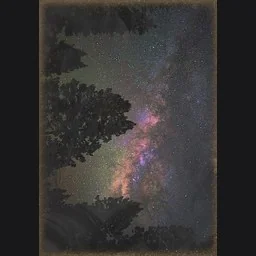
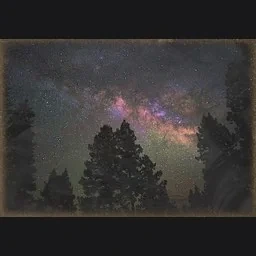
Flag Frame K (cw) and Frame V (ccw) as sideways-stored frames
Both frames store landscape art sideways in a portrait atlas tile but had
no vanillaContentRotation, so uploads rendered sideways in-game.

- K (Milky Way): mesh maps picture-up to the tile's right edge, art top
  points right ~ 'cw', same as D/E/F/G/H/I/J/N/Q/R.
- V (diploma): mesh maps picture-up to the tile's LEFT edge, diploma
  text runs bottom-to-top ~ 'ccw'. The only left-edge frame.

Also turns the K and V reference thumbs upright so the slot cards match
the other rotated frames, and adds both to the thumb script's ROTATIONS.

diff --git a/src/types/slots.ts b/src/types/slots.ts
@@ -123,11 +123,12 @@ export interface SlotDef {
    * Value is the composer's rotate90 direction (canvas y-down: 'cw' sends
    * the upload's top edge to the tile's RIGHT edge).
    *
-   * Source of truth: the LOD0 mesh UVs. Every pictureFrame_01* mesh maps
-   * picture-up to the same block axis, and in every rotated tile that axis
-   * is +U (the tile's right edge) ~ the vanilla art's top points right in
-   * the atlas. So all rotated frames need 'cw'. v1.0.6–1.3.0 shipped 'ccw',
-   * which rendered user art upside down (Picture G report, 1.3.1 fix).
+   * Source of truth: the LOD0 mesh UVs ~ which tile edge the mesh maps to
+   * picture-up (the vanilla art's top agrees in every case). Right edge
+   * (D/E/F/G/H/I/J/K/N/Q/R) → 'cw'; left edge (V, the diploma) → 'ccw'.
+   * v1.0.6–1.3.0 shipped 'ccw' for the right-edge group, which rendered
+   * user art upside down (Picture G report); K and V had no marker and
+   * rendered sideways. Fixed in 1.3.1.
    *
    * NOT the same direction as scripts/fix_rotated_frame_thumbs.py's
    * ROTATIONS dict ~ that one un-rotates the reference thumbs for display.
@@ -368,7 +369,7 @@ export const SLOTS: SlotDef[] = [
   { slotId: 'pictureFrame_01h', materialName: 'pictureFramed3', label: 'Frame H', vanillaBlocks: ['pictureFrame_01h'], kind: 'canvasTile', atlasTile: { x: 373,  y: 1533, w: 350, h: 502 }, vanillaContentRotation: 'cw' },
   { slotId: 'pictureFrame_01i', materialName: 'pictureFramed3', label: 'Frame I', vanillaBlocks: ['pictureFrame_01i'], kind: 'canvasTile', atlasTile: { x: 1288, y: 1138, w: 735, h: 898 }, vanillaContentRotation: 'cw' },
   { slotId: 'pictureFrame_01j', materialName: 'pictureFramed4', label: 'Frame J', vanillaBlocks: ['pictureFrame_01j'], kind: 'canvasTile', atlasTile: { x: 741,  y: 1361, w: 532, h: 674 }, vanillaContentRotation: 'cw' },
-  { slotId: 'pictureFrame_01k', materialName: 'pictureFramed4', label: 'Frame K', vanillaBlocks: ['pictureFrame_01k'], kind: 'canvasTile', atlasTile: { x: 373,  y: 1533, w: 350, h: 502 } },
+  { slotId: 'pictureFrame_01k', materialName: 'pictureFramed4', label: 'Frame K', vanillaBlocks: ['pictureFrame_01k'], kind: 'canvasTile', atlasTile: { x: 373,  y: 1533, w: 350, h: 502 }, vanillaContentRotation: 'cw' },
   { slotId: 'pictureFrame_01l', materialName: 'pictureFramed4', label: 'Frame L', vanillaBlocks: ['pictureFrame_01l'], kind: 'canvasTile', atlasTile: { x: 1288, y: 1138, w: 735, h: 898 } },
   { slotId: 'pictureFrame_01m', materialName: 'pictureFramed5', label: 'Frame M', vanillaBlocks: ['pictureFrame_01m'], kind: 'canvasTile', atlasTile: { x: 1288, y: 1138, w: 735, h: 898 } },
   { slotId: 'pictureFrame_01n', materialName: 'pictureFramed5', label: 'Frame N', vanillaBlocks: ['pictureFrame_01n'], kind: 'canvasTile', atlasTile: { x: 373,  y: 1533, w: 350, h: 502 }, vanillaContentRotation: 'cw' },
@@ -379,7 +380,7 @@ export const SLOTS: SlotDef[] = [
   { slotId: 'pictureFrame_01s', materialName: 'pictureFramed7', label: 'Frame S', vanillaBlocks: ['pictureFrame_01s'], kind: 'canvasTile', atlasTile: { x: 1288, y: 1138, w: 735, h: 898 } },
   { slotId: 'pictureFrame_01t', materialName: 'pictureFramed7', label: 'Frame T', vanillaBlocks: ['pictureFrame_01t'], kind: 'canvasTile', atlasTile: { x: 373,  y: 1533, w: 350, h: 502 } },
   { slotId: 'pictureFrame_01u', materialName: 'pictureFramed7', label: 'Frame U', vanillaBlocks: ['pictureFrame_01u'], kind: 'canvasTile', atlasTile: { x: 741,  y: 1361, w: 532, h: 674 } },
-  { slotId: 'pictureFrame_01v', materialName: 'pictureFramed8', label: 'Frame V', vanillaBlocks: ['pictureFrame_01v'], kind: 'canvasTile', atlasTile: { x: 741,  y: 1361, w: 532, h: 674 } },
+  { slotId: 'pictureFrame_01v', materialName: 'pictureFramed8', label: 'Frame V', vanillaBlocks: ['pictureFrame_01v'], kind: 'canvasTile', atlasTile: { x: 741,  y: 1361, w: 532, h: 674 }, vanillaContentRotation: 'ccw' },
   { slotId: 'pictureFrame_01w', materialName: 'pictureFramed8', label: 'Frame W', vanillaBlocks: ['pictureFrame_01w'], kind: 'canvasTile', atlasTile: { x: 373,  y: 1533, w: 350, h: 502 } },
   // Picture canvases ~ each pictureCanvas_01<letter> samples its own tile of
   // the shared 2048×2048 canvas atlas (pictureCanvas_d / pictureCanvas2_d).

diff --git a/src/types/slots.test.ts b/src/types/slots.test.ts
@@ -211,13 +211,13 @@ describe('orientation helpers', () => {
   })
 
   describe('vanillaContentRotation classification (smoke check)', () => {
-    it('marks all 10 known-rotated picture frames as CW', () => {
-      // Every rotated frame mesh maps picture-up to the tile's +U (right)
-      // edge, and the vanilla art's top points right in each atlas tile, so
-      // the composer must send the upload's top to the right ~ 'cw'. The
-      // 'ccw' shipped in v1.0.6–1.3.0 rendered user art upside down
-      // (reported in-game on Picture G).
-      const rotated = ['d', 'e', 'f', 'g', 'h', 'i', 'j', 'n', 'q', 'r']
+    it('marks the 11 picture frames whose art top points right as CW', () => {
+      // These frame meshes map picture-up to the tile's +U (right) edge, and
+      // the vanilla art's top points right in each atlas tile, so the
+      // composer must send the upload's top to the right ~ 'cw'. The 'ccw'
+      // shipped in v1.0.6–1.3.0 rendered user art upside down (reported
+      // in-game on Picture G). K was missing its marker entirely.
+      const rotated = ['d', 'e', 'f', 'g', 'h', 'i', 'j', 'k', 'n', 'q', 'r']
       for (const letter of rotated) {
         const slotId = `pictureFrame_01${letter}`
         expect(slotById(slotId).vanillaContentRotation,
@@ -225,8 +225,12 @@ describe('orientation helpers', () => {
       }
     })
 
-    it('leaves the 13 upright picture frames without a rotation marker', () => {
-      const upright = ['a', 'b', 'c', 'k', 'l', 'm', 'o', 'p', 's', 't', 'u', 'v', 'w']
+    it('marks Frame V (diploma) as CCW ~ its mesh maps picture-up to the tile LEFT edge', () => {
+      expect(slotById('pictureFrame_01v').vanillaContentRotation).toBe('ccw')
+    })
+
+    it('leaves the 11 upright picture frames without a rotation marker', () => {
+      const upright = ['a', 'b', 'c', 'l', 'm', 'o', 'p', 's', 't', 'u', 'w']
       for (const letter of upright) {
         const slotId = `pictureFrame_01${letter}`
         expect(slotById(slotId).vanillaContentRotation,

diff --git a/scripts/fix_rotated_frame_thumbs.py b/scripts/fix_rotated_frame_thumbs.py
@@ -50,6 +50,8 @@ ROTATIONS: dict[str, str] = {
     'pictureFrame_01n': 'ccw',
     'pictureFrame_01q': 'ccw',
     'pictureFrame_01r': 'ccw',
+    'pictureFrame_01k': 'ccw',
+    'pictureFrame_01v': 'cw',
 }
 
 
